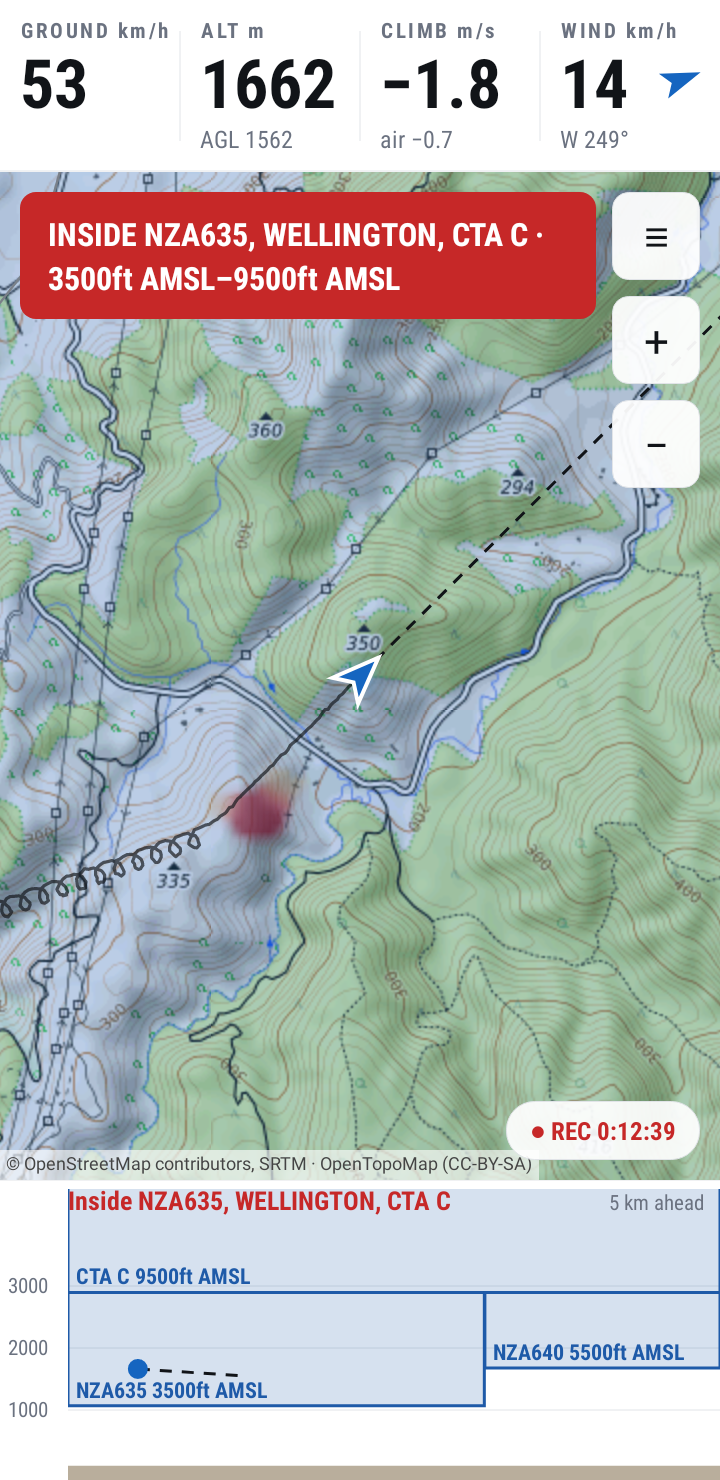
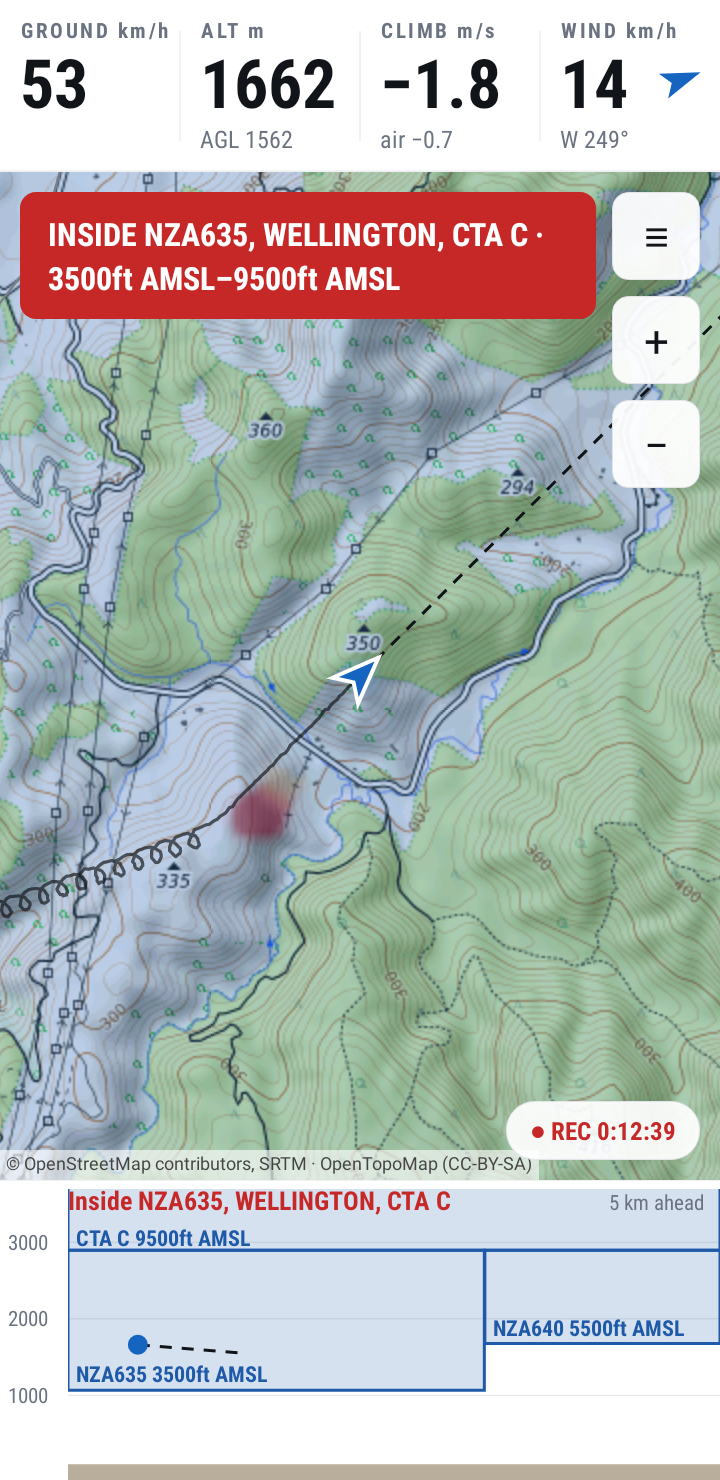
cloudbase: side view shows the current airspace layer; lift history pinned to the ground for the whole flight
Claude-Session: https://claude.ai/code/session_01WPq8MfriARqNX7o4hLC8bK

diff --git a/app/src/main/java/app/cloudbase/ui/SideView.kt b/app/src/main/java/app/cloudbase/ui/SideView.kt
@@ -18,7 +18,6 @@ import app.cloudbase.core.airspace.Slab
 import app.cloudbase.core.airspace.crossSection
 import app.cloudbase.ui.Theme.dp
 import app.cloudbase.ui.Theme.sp
-import kotlin.math.ceil
 import kotlin.math.floor
 import kotlin.math.max
 import kotlin.math.min
@@ -101,14 +100,17 @@ class SideView(context: Context) : View(context) {
         slabs = crossSection(candidates, start.lat, start.lon, bearing, spanM)
         relevance = slabs.map { policy.relevance(it.airspace) }
 
-        // Vertical window: ground to comfortably above us, opened up to include the next floor
-        // overhead. Snapped to whole steps so it does not breathe with every fix.
-        var hi = altMsl + 400
-        c.headroom?.let { hi = max(hi, altMsl + it.second + 250) }
-        // Coarser grid lines when the window is tall, so there are never more than about six.
-        step = when { hi - lo > 3000 -> 1000.0; hi - lo > 1300 -> 500.0; else -> 250.0 }
-        bottom = floor((lo - 60) / step) * step
-        top = ceil(hi / step) * step
+        // Vertical window: from the ground to just past the top of the layer we are in. Below all
+        // airspace that is the floor overhead; inside an airspace it is that airspace's ceiling,
+        // so the next boundary up is always in view and nothing beyond it takes up room. The
+        // window grows by itself as each boundary is crossed.
+        val boundary = nextBoundaryAbove()
+        val hi = if (boundary.isNaN()) altMsl + OPEN_SKY_M else boundary
+        bottom = lo - 60
+        // "Just past": enough above the boundary to see what starts there.
+        top = max(hi + max(MIN_PAST_M, (hi - bottom) * PAST_FRACTION), altMsl + MIN_PAST_M)
+        step = when { top - bottom > 3000 -> 1000.0; top - bottom > 1300 -> 500.0; else -> 250.0 }
+        bottom = floor(bottom / step) * step
 
         val u = Units(Hub.settings)
         val h = c.headroom
@@ -128,6 +130,25 @@ class SideView(context: Context) : View(context) {
             }
         }
         invalidate()
+    }
+
+    /**
+     * The first airspace boundary above the glider, AMSL: the lowest floor overhead, or the
+     * ceiling of an airspace we are inside, whichever comes first. NaN if there is none. Only
+     * airspace that alerts counts; informational sectors do not define the layers.
+     */
+    private fun nextBoundaryAbove(): Double {
+        val ground = groundAt(backM)
+        var best = Double.NaN
+        for (i in slabs.indices) {
+            val s = slabs[i]
+            if (relevance[i] != Relevance.ALERT || s.fromM > backM || s.toM < backM) continue
+            val floor = limitMsl(s.airspace.lower, ground)
+            val ceiling = if (s.airspace.upper.isUnlimited) Double.NaN else limitMsl(s.airspace.upper, ground)
+            val edge = if (floor > altMsl) floor else if (!ceiling.isNaN() && ceiling > altMsl) ceiling else Double.NaN
+            if (!edge.isNaN() && (best.isNaN() || edge < best)) best = edge
+        }
+        return best
     }
 
     /** Altitude AMSL of a limit at this moment, at a place where the ground is at [ground]. */
@@ -188,7 +209,9 @@ class SideView(context: Context) : View(context) {
             slabEdge.color = col
             canvas.drawPath(path, slabEdge)
             val floorY = yOf(limitMsl(sp.lower, groundAt(s.fromM)))
-            if (x1 - x0 > context.dp(40f) && relevance[i] == Relevance.ALERT) {
+            // Label a block at its floor, and only when that floor is in view: a block that starts
+            // above the window has no place to put a label that would not sit on another one.
+            if (x1 - x0 > context.dp(40f) && relevance[i] == Relevance.ALERT && floorY >= padT) {
                 namePaint.color = col
                 val ty = (floorY - context.dp(4f)).coerceIn(padT + namePaint.textSize, height - padB - context.dp(2f))
                 canvas.drawText("${AirspaceStyle.short(sp)} ${sp.lower.text}", max(x0, padL) + context.dp(4f), ty, namePaint)
@@ -233,5 +256,10 @@ class SideView(context: Context) : View(context) {
         /** Fraction of the range also shown behind the glider. */
         const val BEHIND = 0.12
         const val SAMPLES = 64
+        /** Sky shown above the glider when there is no airspace overhead. */
+        const val OPEN_SKY_M = 400.0
+        /** How far past the next boundary the view extends: this fraction of the height shown, at least MIN_PAST_M. */
+        const val PAST_FRACTION = 0.12
+        const val MIN_PAST_M = 80.0
     }
 }

diff --git a/app/src/main/java/app/cloudbase/ui/Overlays.kt b/app/src/main/java/app/cloudbase/ui/Overlays.kt
@@ -9,6 +9,7 @@ import android.graphics.Paint
 import android.graphics.Path
 import android.graphics.RectF
 import app.cloudbase.Hub
+import app.cloudbase.core.FlightComputer
 import app.cloudbase.core.Geo
 import app.cloudbase.core.LocalProjection
 import app.cloudbase.core.airspace.Airspace
@@ -132,22 +133,30 @@ class ThermalOverlay(context: Context) : MapView.Overlay, ThermalMap.Visitor {
     private var y0 = 0.0
     private var cx = 0     // lattice index of the view centre relative to that point
     private var cy = 0
+    private var pass = LIVE
 
     override fun draw(canvas: Canvas, p: MapView.Projection) {
         if (!Hub.settings.showThermals) return
-        val t = Hub.computer.thermals
+        val live = Hub.computer.thermals
+        val history = Hub.computer.thermalHistory
         val now = Hub.computer.fix?.timeMs ?: return
-        if (t.size == 0) return
+        if (live.size == 0 && history.size == 0) return
 
         // The bitmap covers SIZE cells around the middle of the view (about 2.9 km at 30 m cells).
         val midLat = (p.minLat + p.maxLat) / 2
         val midLon = p.lon(p.width / 2f)
         proj = LocalProjection(midLat, midLon)
-        cell = t.cellM
+        cell = live.cellM
         hasPhase = false
         grid.clear()
         val half = SIZE / 2 * cell
-        t.forEach(proj.lat(-half), proj.lon(-half), proj.lat(half), proj.lon(half), now, this)
+        val s = proj.lat(-half); val w = proj.lon(-half); val n = proj.lat(half); val e = proj.lon(half)
+        // Recent air first, drifting with the wind; then older samples where they were met. A
+        // sample is in exactly one of the two, so nothing is drawn twice.
+        pass = LIVE
+        live.forEach(s, w, n, e, now, this)
+        pass = HISTORY
+        history.forEach(s, w, n, e, now, this)
         if (!hasPhase) return
         grid.render(FULL_SCALE_MS)
         bitmap.setPixels(grid.pixels, 0, SIZE, 0, 0, SIZE, SIZE)
@@ -162,6 +171,15 @@ class ThermalOverlay(context: Context) : MapView.Overlay, ThermalMap.Visitor {
     }
 
     override fun cell(lat: Double, lon: Double, climb: Double, ageMs: Long) {
+        // Live samples fade from full strength to the history level over the live window, so the
+        // hand-over between the two layers does not show as a jump in brightness.
+        val liveWindow = FlightComputer.LIVE_THERMAL_MS
+        val strength = if (pass == LIVE) {
+            1f - (1f - HISTORY_STRENGTH) * min(1.0, ageMs.toDouble() / liveWindow).toFloat()
+        } else {
+            if (ageMs < liveWindow) return // still shown by the live layer
+            HISTORY_STRENGTH
+        }
         val x = proj.x(lon)
         val y = proj.y(lat)
         if (!hasPhase) {
@@ -170,18 +188,21 @@ class ThermalOverlay(context: Context) : MapView.Overlay, ThermalMap.Visitor {
             cx = Math.round(-x0 / cell).toInt()
             cy = Math.round(-y0 / cell).toInt()
         }
+        // The two layers' lattices are offset by the drift; history is snapped to the nearest
+        // pixel of the live one (at most half a cell out, which is nothing at that age).
         val ix = Math.round((x - x0) / cell).toInt() - cx + SIZE / 2
         val iy = cy + SIZE / 2 - Math.round((y - y0) / cell).toInt()
-        // Fade with age: an old thermal has probably moved on or died.
-        val fresh = 1f - 0.75f * min(1.0, ageMs / FADE_MS).toFloat()
-        grid.splat(ix, iy, climb.toFloat(), fresh)
+        grid.splat(ix, iy, climb.toFloat(), strength)
     }
 
     companion object {
         /** Lift or sink at which the colour is at its strongest. */
         const val FULL_SCALE_MS = 3.0f
-        const val FADE_MS = 15 * 60_000.0
+        /** How strongly old, ground-fixed samples are drawn next to fresh ones: faded, still legible. */
+        const val HISTORY_STRENGTH = 0.5f
         const val SIZE = 96
+        private const val LIVE = 0
+        private const val HISTORY = 1
     }
 }
 

diff --git a/core/src/main/kotlin/app/cloudbase/core/FlightComputer.kt b/core/src/main/kotlin/app/cloudbase/core/FlightComputer.kt
@@ -85,7 +85,18 @@ class FlightComputer(private val terrain: (lat: Double, lon: Double) -> Double) 
     var hasBaro = false; private set
     var recording = false; private set
 
-    val thermals = ThermalMap()
+    /**
+     * Lift and sink met in the last [LIVE_THERMAL_MS], carried downwind with the air: where the
+     * thermal you are working is NOW. This is the one to centre on.
+     */
+    val thermals = ThermalMap(maxAgeMs = LIVE_THERMAL_MS)
+
+    /**
+     * The same samples left where they were met, over the ground, for the whole flight: "there
+     * was lift over that spur half an hour ago". It does not drift, because what lasts is the
+     * place that triggers thermals, not the air that was there at the time.
+     */
+    val thermalHistory = ThermalMap(maxAgeMs = WHOLE_FLIGHT_MS, maxCells = HISTORY_CELLS)
     val trail = Trail(1800)
 
     // --- internals ---------------------------------------------------------------------------
@@ -176,6 +187,10 @@ class FlightComputer(private val terrain: (lat: Double, lon: Double) -> Double) 
         // detector anything; without a barometer it works from speed and height above ground.
         val event = if (autoRecord) detector.update(f.timeMs, f.speed, if (hasBaro) v else Double.NaN, agl) else null
         val flying = detector.state == FlightState.FLYING
+        if (event == FlightEvent.TAKEOFF) {
+            // Each flight starts with a clean sheet.
+            thermals.clear(); thermalHistory.clear(); trail.clear()
+        }
 
         val w = wind.estimate(f.timeMs)
         windEstimate = w
@@ -185,6 +200,7 @@ class FlightComputer(private val terrain: (lat: Double, lon: Double) -> Double) 
             airMass = Netto.airMass(v, turnRateDegS, tas, trimSinkMs)
             if (w != null && dtS > 0 && dtS < 10) thermals.drift(w.wind, dtS)
             thermals.add(f.lat, f.lon, airMass, f.timeMs)
+            thermalHistory.add(f.lat, f.lon, airMass, f.timeMs)
             thermalCore = thermals.bestLift(f.lat, f.lon, 400.0, f.timeMs)
             trail.add(f.lat, f.lon)
         } else {
@@ -230,6 +246,7 @@ class FlightComputer(private val terrain: (lat: Double, lon: Double) -> Double) 
         wind.reset()
         alerts.reset()
         thermals.clear()
+        thermalHistory.clear()
         trail.clear()
         fix = null
         altMsl = Double.NaN; pressureAlt = Double.NaN; terrainElev = Double.NaN
@@ -365,6 +382,16 @@ class FlightComputer(private val terrain: (lat: Double, lon: Double) -> Double) 
         const val PRE_TAKEOFF_MS = 5_000L
         /** A crash or flat battery loses at most this many seconds of log. */
         const val FLUSH_EVERY = 10
+        /**
+         * How long a sample rides the wind before it is pinned to the ground. Long enough to cover
+         * centring a climb (you and the air you sampled drift downwind together); beyond that,
+         * what is worth remembering is the place, since thermals come off terrain.
+         */
+        const val LIVE_THERMAL_MS = 5 * 60_000L
+        /** Longer than any flight: history is cleared at the next takeoff, not by age. */
+        const val WHOLE_FLIGHT_MS = 24 * 3_600_000L
+        /** About 16 hours of straight-line flying at one new 30 m cell every three seconds. */
+        const val HISTORY_CELLS = 20_000
         const val OPEN_RETRY_FIXES = 20
         const val GLIDE_TAU_S = 8.0
         /** A thermalling turn is 15-25 degrees a second; 8 is already a deliberate, held turn. */

diff --git a/app/src/main/java/app/cloudbase/ui/HeatGrid.kt b/app/src/main/java/app/cloudbase/ui/HeatGrid.kt
@@ -7,7 +7,8 @@ import kotlin.math.min
  * Turns scattered lift/sink cells into a smooth picture: a small grid, one pixel per thermal-map
  * cell, where every cell is spread over its neighbours with a Gaussian kernel. The pixel's value
  * is the weighted average climb of everything spread onto it, and its opacity is how much was
- * (so the edge of what has been flown through fades out rather than ending in a hard line).
+ * (so the edge of what has been flown through fades out rather than ending in a hard line)
+ * and how fresh.
  * Drawn scaled up with bilinear filtering, that reads as a cloud, not as dots.
  *
  * Plain Kotlin on arrays so it can be tested without Android, and nothing is allocated per frame.
@@ -15,12 +16,14 @@ import kotlin.math.min
 class HeatGrid(val n: Int) {
     private val sum = FloatArray(n * n)
     private val weight = FloatArray(n * n)
+    private val cover = FloatArray(n * n)
     /** Non-premultiplied ARGB, row 0 at the top, ready for Bitmap.setPixels. */
     val pixels = IntArray(n * n)
 
     fun clear() {
         sum.fill(0f)
         weight.fill(0f)
+        cover.fill(0f)
     }
 
     /** Spread one cell at grid position ([ix], [iy]) with value [climb] m/s; [w] 0..1 scales its say (age). */
@@ -33,10 +36,11 @@ class HeatGrid(val n: Int) {
             for (dx in -R..R) {
                 val x = ix + dx
                 if (x < 0 || x >= n) continue
-                val k = ky * KERNEL[dx + R] * w
+                val k = ky * KERNEL[dx + R]
                 val i = y * n + x
-                sum[i] += k * climb
-                weight[i] += k
+                sum[i] += k * w * climb
+                weight[i] += k * w
+                cover[i] += k
             }
         }
     }
@@ -45,11 +49,13 @@ class HeatGrid(val n: Int) {
     fun render(fullScale: Float) {
         for (i in pixels.indices) {
             val w = weight[i]
-            if (w < 1e-4f) { pixels[i] = 0; continue }
+            if (w < 1e-5f) { pixels[i] = 0; continue }
             val v = sum[i] / w
-            // One fresh cell alone gives CENTRE_WEIGHT at its own pixel: that counts as fully covered.
-            val coverage = min(1f, w / CENTRE_WEIGHT)
-            pixels[i] = color(v, fullScale, coverage)
+            // One cell alone gives CENTRE_WEIGHT at its own pixel: that counts as fully covered.
+            // Opacity is coverage times the average say of what landed here, so a whole patch of
+            // old samples is as faded as a single old sample, however densely it was flown.
+            val coverage = min(1f, cover[i] / CENTRE_WEIGHT)
+            pixels[i] = color(v, fullScale, coverage * (w / cover[i]))
         }
     }
 

diff --git a/core/src/test/kotlin/app/cloudbase/core/FlightComputerTest.kt b/core/src/test/kotlin/app/cloudbase/core/FlightComputerTest.kt
@@ -167,6 +167,38 @@ class FlightComputerTest {
         assertEquals(FlightState.GROUND, r.computer.flightState)
     }
 
+    @Test fun liftIsRememberedWhereItWasMetForTheWholeFlight() {
+        // Where the sim was, over the ground, a minute into its first climb.
+        var spotLat = Double.NaN
+        var spotLon = Double.NaN
+        var spotTime = 0.0
+        var liveAtSpot = 0.0
+        var historyAtSpot = 0.0
+        var lastFixMs = 0L
+        val r = fly(wind = Wind(250.0, 5.0), eachFix = { c, sim ->
+            if (spotLat.isNaN() && c.circling && sim.trueVario > 1.5) { spotLat = sim.trueLat; spotLon = sim.trueLon; spotTime = sim.timeS }
+            // Look again 25 minutes later, just before landing.
+            if (!spotLat.isNaN() && sim.flying && sim.timeS > spotTime + 25 * 60) {
+                liveAtSpot = strongestNear(c.thermals, spotLat, spotLon, c.fix!!.timeMs)
+                historyAtSpot = strongestNear(c.thermalHistory, spotLat, spotLon, c.fix!!.timeMs)
+                lastFixMs = c.fix!!.timeMs
+            }
+        })
+        assertTrue("never looked", lastFixMs != 0L)
+        // The drifting map has long since carried that lift downwind (or aged it out)...
+        assertTrue("live map still shows $liveAtSpot there", liveAtSpot < 0.5)
+        // ...but the history still says there was a climb at that place.
+        assertTrue("history shows $historyAtSpot there", historyAtSpot > 1.0)
+        assertTrue(r.computer.thermalHistory.size > r.computer.thermals.size)
+    }
+
+    private fun strongestNear(map: app.cloudbase.core.flight.ThermalMap, lat: Double, lon: Double, nowMs: Long): Double {
+        var best = 0.0
+        val d = 60.0 / 111_000.0
+        map.forEach(lat - d, lon - d * 1.5, lat + d, lon + d * 1.5, nowMs) { _, _, climb, _ -> if (climb > best) best = climb }
+        return best
+    }
+
     @Test fun worksWithoutTerrain() {
         val r = fly(terrainKnown = false)
         assertEquals(listOf(FlightEvent.TAKEOFF, FlightEvent.LANDING), r.events)

diff --git a/app/src/test/java/app/cloudbase/ui/HeatGridTest.kt b/app/src/test/java/app/cloudbase/ui/HeatGridTest.kt
@@ -76,6 +76,18 @@ class HeatGridTest {
         assertTrue(blue(g.pixels[8 * 16 + 8]) > red(g.pixels[8 * 16 + 8]))
     }
 
+    @Test fun aDensePatchOfOldSamplesIsAsFadedAsOneOldSample() {
+        val lone = HeatGrid(16)
+        lone.clear(); lone.splat(8, 8, 2f, 0.5f); lone.render(3f)
+        val dense = HeatGrid(16)
+        dense.clear()
+        for (y in 4..12) for (x in 4..12) dense.splat(x, y, 2f, 0.5f)
+        dense.render(3f)
+        val full = alpha(HeatGrid.color(2f, 3f, 1f))
+        assertEquals(alpha(lone.pixels[8 * 16 + 8]), alpha(dense.pixels[8 * 16 + 8]))
+        assertEquals(full / 2.0, alpha(dense.pixels[8 * 16 + 8]).toDouble(), 2.0)
+    }
+
     @Test fun edgesAndClearAreSafe() {
         val g = HeatGrid(8)
         g.clear()

diff --git a/README.md b/README.md
@@ -38,13 +38,17 @@ is carrying you on the map.
 or red (restricted, danger, military); informational airspace is thin grey. Tap an airspace for
 its limits, or to ignore it. The coloured cloud is the **thermal map**: warm where the air was
 rising (amber for weak lift through to deep red for strong), cool where it was sinking (pale to
-deep blue), drifting downwind with the air; the red ring marks the best lift nearby. The map **zooms in close when you start circling** and back out when you leave.
+deep blue), drifting downwind with the air; the red ring marks the best lift nearby. That drift only lasts
+five minutes, long enough to centre the climb you are in. After that a patch is shown, faded,
+at the ground location where you met it, and stays there for the rest of the flight: thermals
+come off terrain, so the place is what is worth remembering. The map **zooms in close when you start circling** and back out when you leave.
 The dashed line ends in an **×** where your present glide meets the ground (while climbing it
 shows where you will be in a minute instead).
 
 **Side view.** A slice through the air along your direction of travel: terrain, airspace as
 blocks at their real heights, your projected path, and the headline number — how far below the
-next airspace floor you are. Tap to change the range (2, 5, 10 km).
+next airspace floor you are. It shows from the ground to just past the next boundary above you
+(the floor overhead, or the top of the airspace you are in) and opens up as you cross each one. Tap to change the range (2, 5, 10 km).
 
 **Alerts.** A banner, a tone and (optionally) a spoken warning when you are *near* an airspace
 (amber), *about to enter* one on your present track and climb (red, with seconds to go), or
